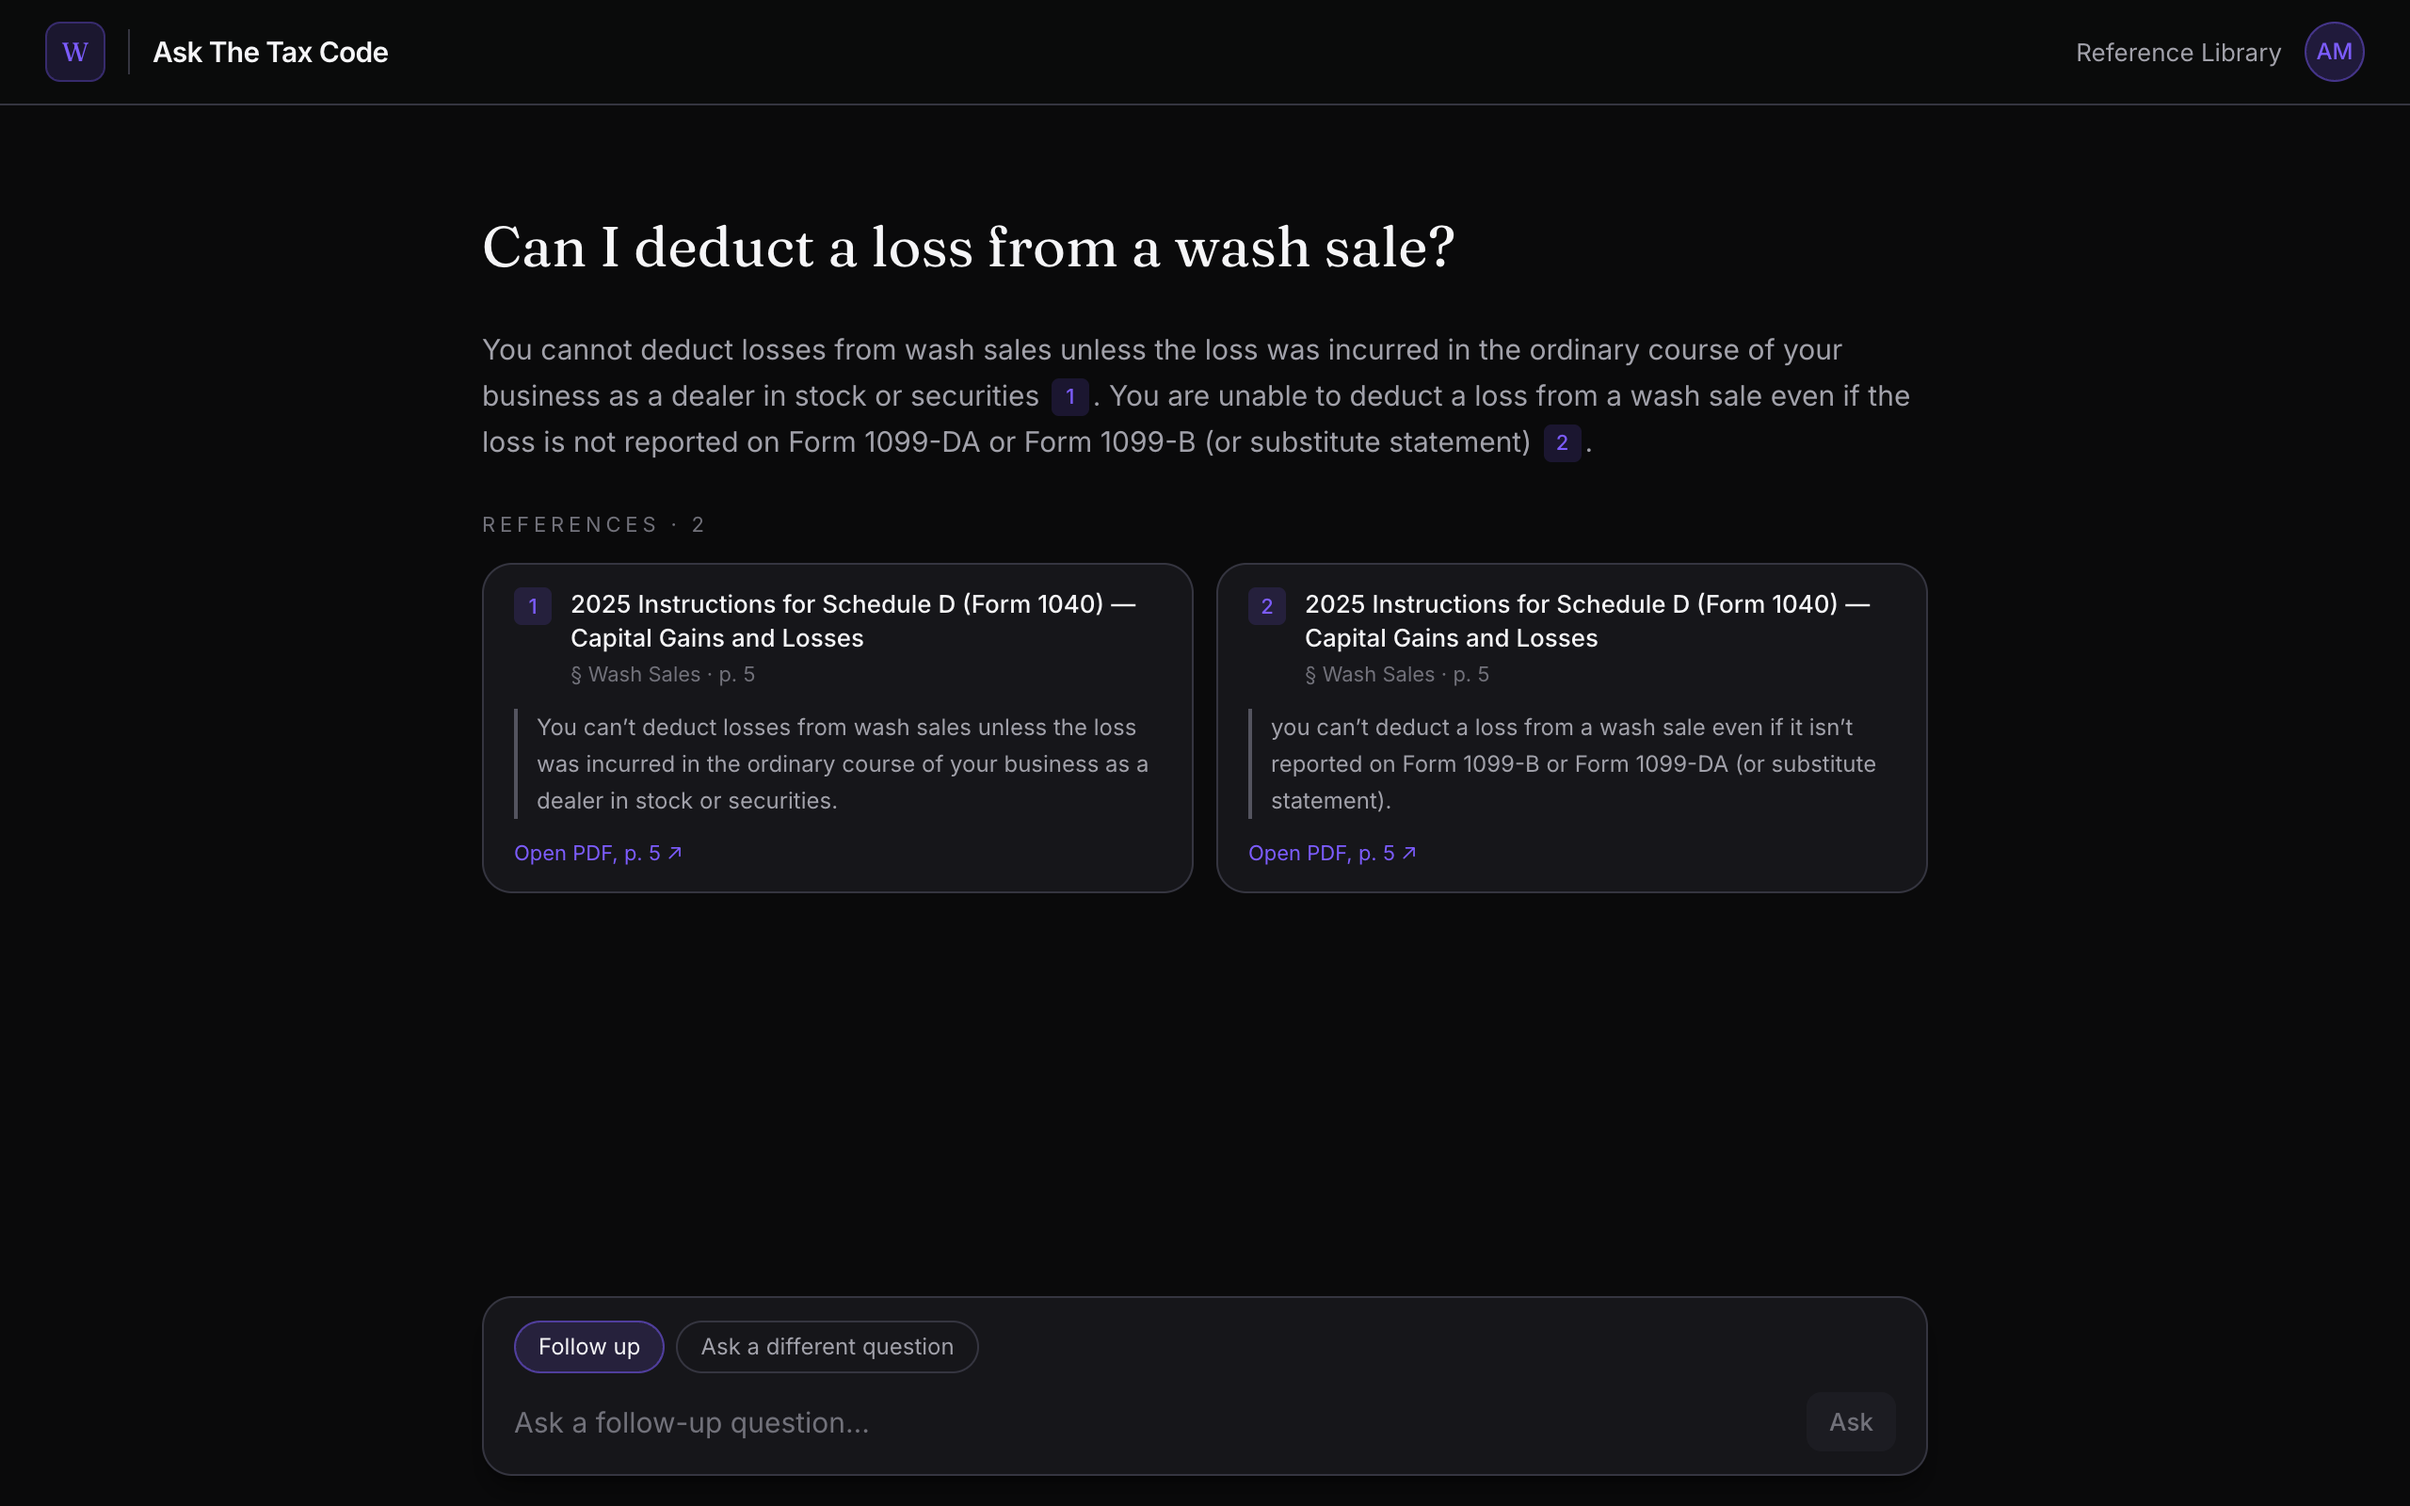
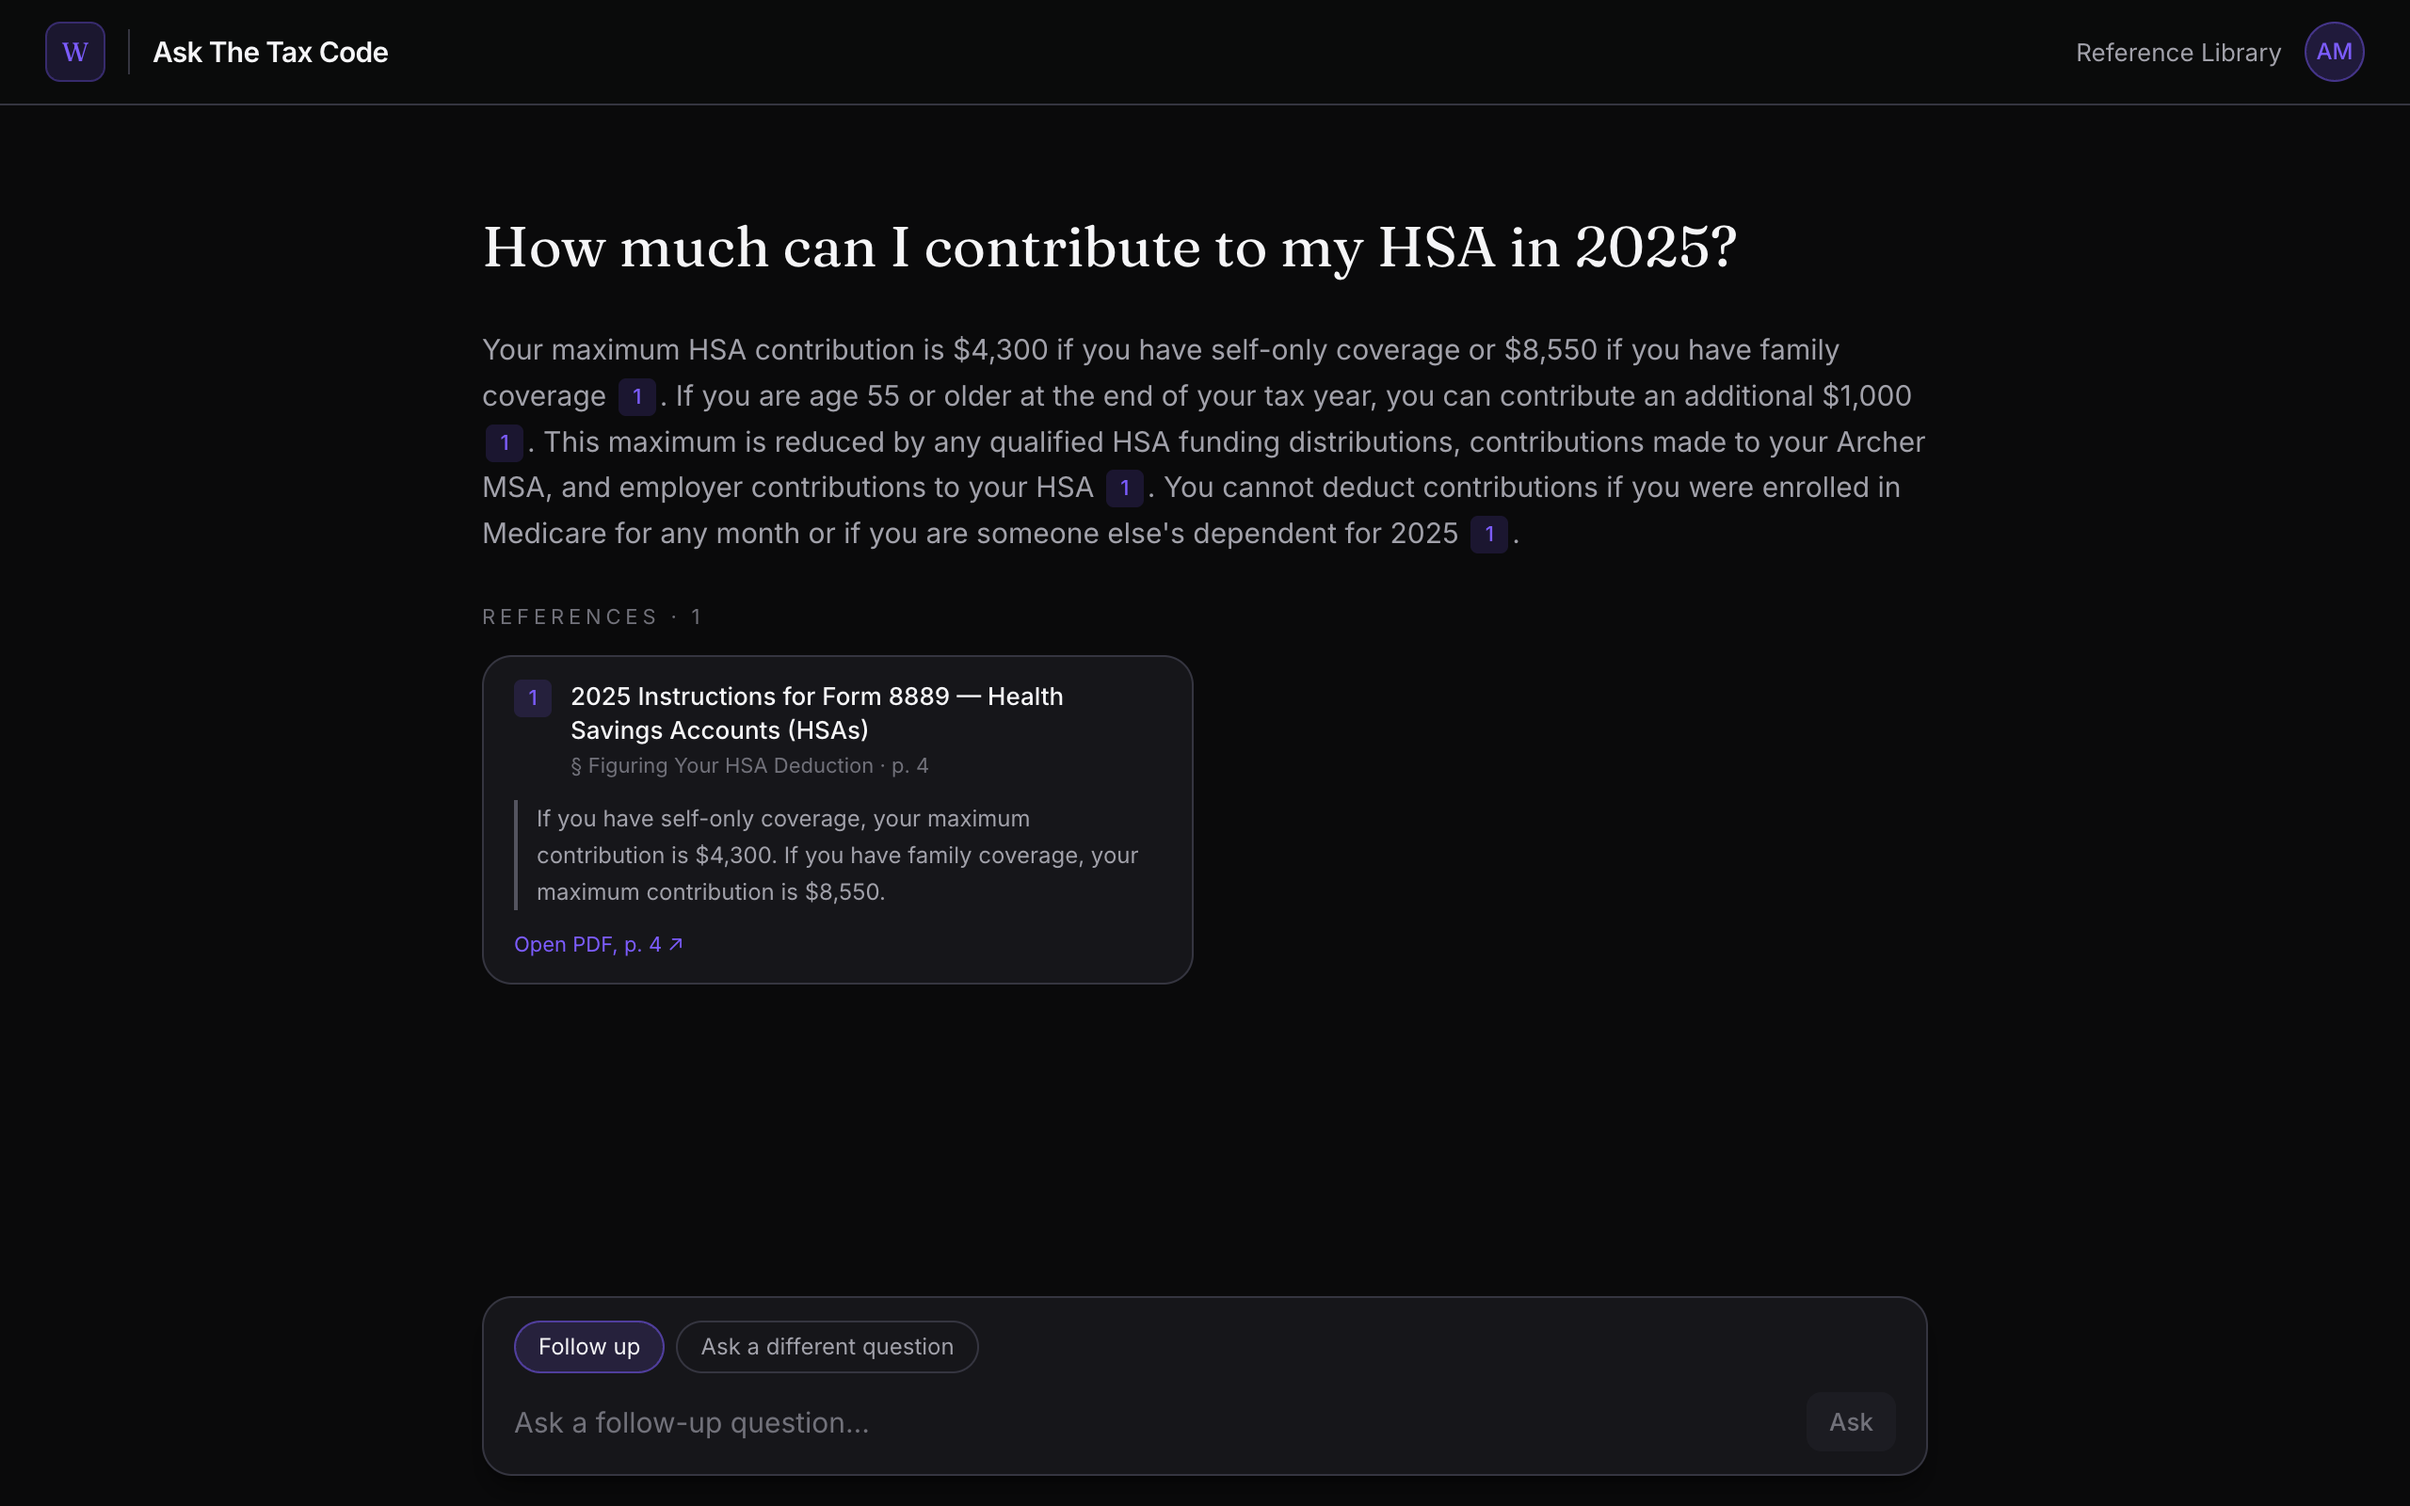
docs: lead the Ask The Tax Code screenshot with an HSA question
A mundane question with a positive answer (the 2025 HSA limits) shows
the feature better than a wash-sale loss.

Changed region(s): [[0.1875, 0.2188, 0.7812, 0.5938], [0.1875, 0.125, 0.7188, 0.1875], [0.2188, 0.625, 0.2812, 0.6562]]

diff --git a/README.md b/README.md
@@ -55,7 +55,7 @@ A 2025 return: chat with Luca on the left; activity, requested actions, and the 
 
 Ask The Tax Code: a question from the home page gets a short answer with numbered citations into the IRS and FTB instructions; each card quotes the passage and opens the source PDF on its page.
 
-<img src="static/screenshots/ask-tax-code.png" alt="Ask The Tax Code page: the question 'Can I deduct a loss from a wash sale?', a two-sentence answer with citation markers 1 and 2, two reference cards quoting the Schedule D instructions with Open PDF links, and the Follow up / Ask a different question composer at the bottom" width="880">
+<img src="static/screenshots/ask-tax-code.png" alt="Ask The Tax Code page: the question 'How much can I contribute to my HSA in 2025?', an answer giving the $4,300 self-only and $8,550 family limits with citation markers, a reference card quoting the Form 8889 instructions with an Open PDF link, and the Follow up / Ask a different question composer at the bottom" width="880">
 
 ## Before you use this — read honestly
 
